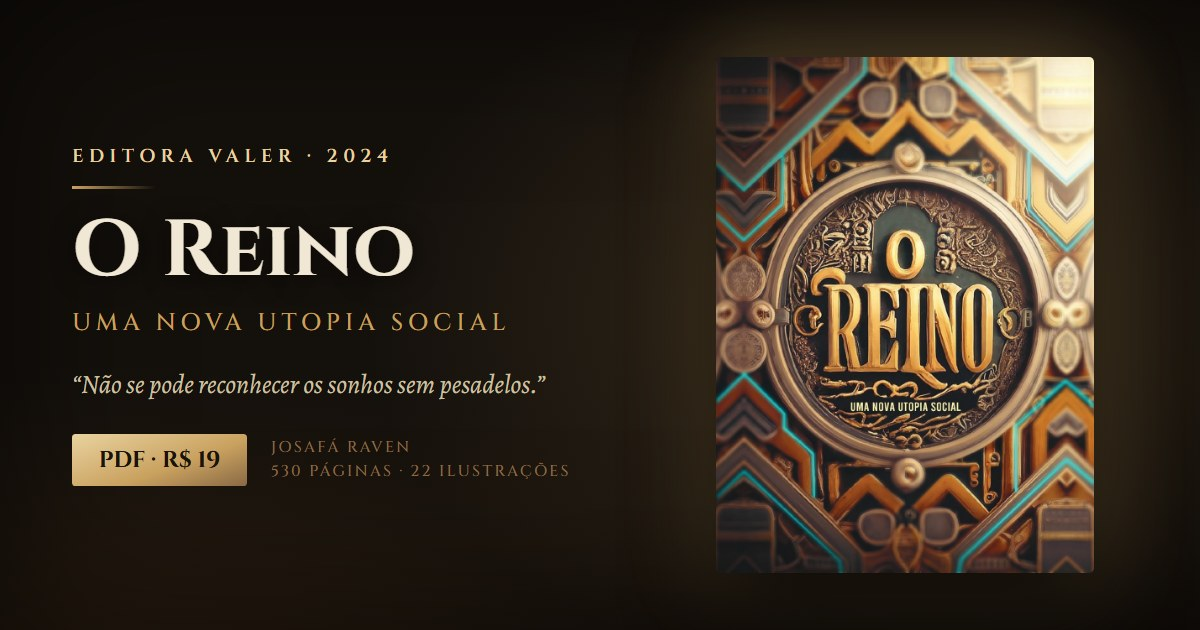
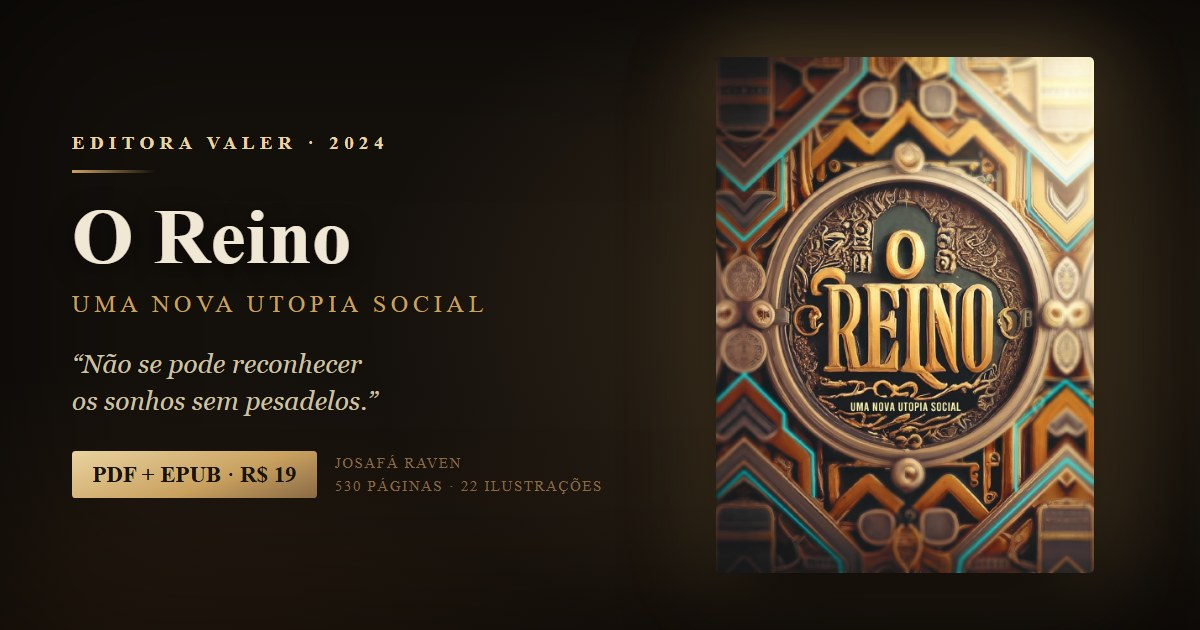
Cartao de compartilhamento: descricao dentro do limite do WhatsApp e selo PDF + EPUB
A Meta especifica og:description de ate 80 caracteres para o preview grande
do WhatsApp; a nossa tinha 115. Encurtada para 69, em og: e twitter:.
A arte 1200x630 foi regerada com o selo "PDF + EPUB - R$ 19" no lugar de
"PDF - R$ 19", e o rodape voltou a caber numa linha so.

Changed region(s): [[0.0617, 0.3317, 0.4933, 0.8143], [0.0617, 0.2111, 0.2467, 0.3016], [0.2775, 0.2111, 0.3392, 0.2714]]

diff --git a/index.html b/index.html
@@ -7,7 +7,7 @@
 <meta name="description" content="O épico de ficção científica que prova o que imagina. Romance de Josafá Raven (Editora Valer, 2024) com fontes científicas reais e 22 ilustrações. PDF e EPUB por R$ 19.">
 <link rel="canonical" href="https://livrooreino.github.io/">
 <meta property="og:title" content="O Reino: Uma Nova Utopia Social">
-<meta property="og:description" content="Não se pode reconhecer os sonhos sem pesadelos. A ficção científica que prova o que imagina — PDF e EPUB por R$ 19.">
+<meta property="og:description" content="Não se pode reconhecer os sonhos sem pesadelos. PDF + EPUB por R$ 19.">
 <meta property="og:image" content="https://livrooreino.github.io/assets/compartilhar.jpg">
 <meta property="og:image:width" content="1200">
 <meta property="og:image:height" content="630">
@@ -18,7 +18,7 @@
 <meta property="og:locale" content="pt_BR">
 <meta name="twitter:card" content="summary_large_image">
 <meta name="twitter:title" content="O Reino: Uma Nova Utopia Social">
-<meta name="twitter:description" content="Não se pode reconhecer os sonhos sem pesadelos. A ficção científica que prova o que imagina — PDF e EPUB por R$ 19.">
+<meta name="twitter:description" content="Não se pode reconhecer os sonhos sem pesadelos. PDF + EPUB por R$ 19.">
 <meta name="twitter:image" content="https://livrooreino.github.io/assets/compartilhar.jpg">
 <link rel="preconnect" href="https://fonts.googleapis.com">
 <link rel="preconnect" href="https://fonts.gstatic.com" crossorigin>
